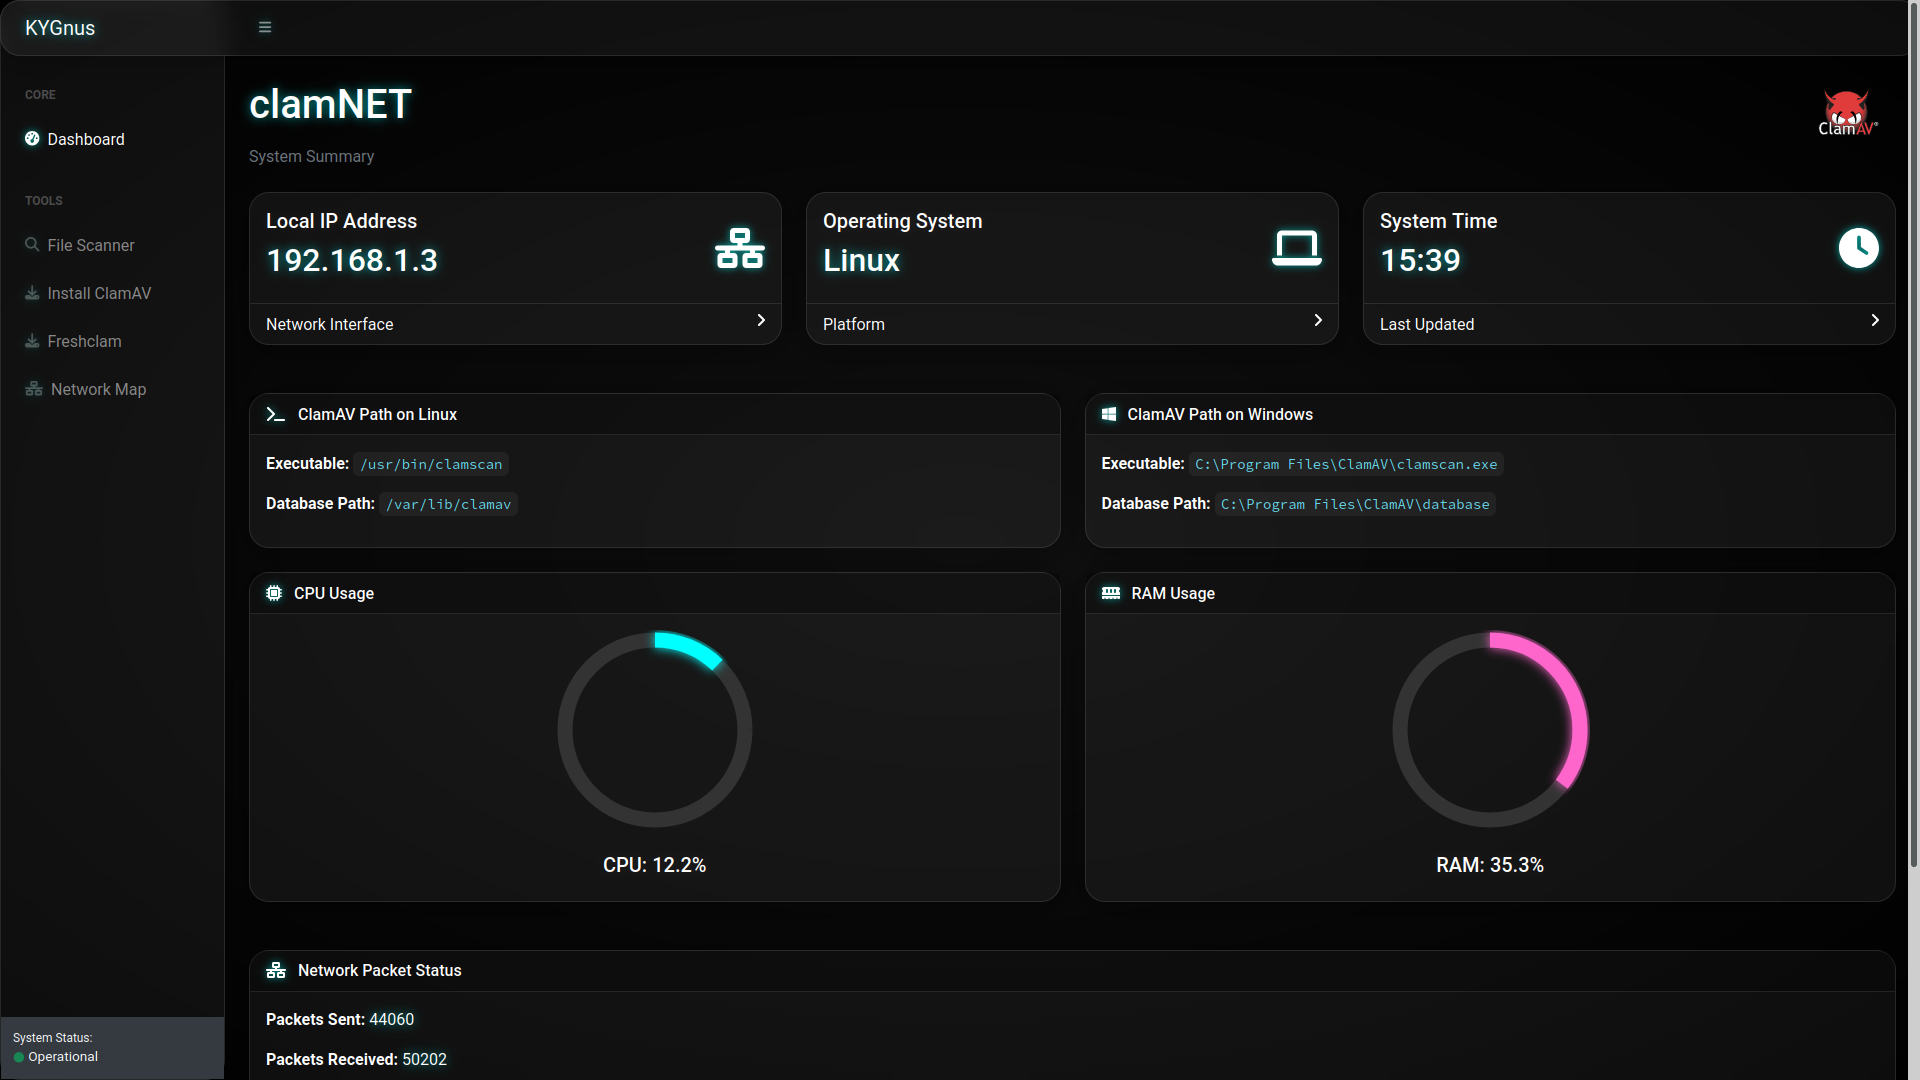
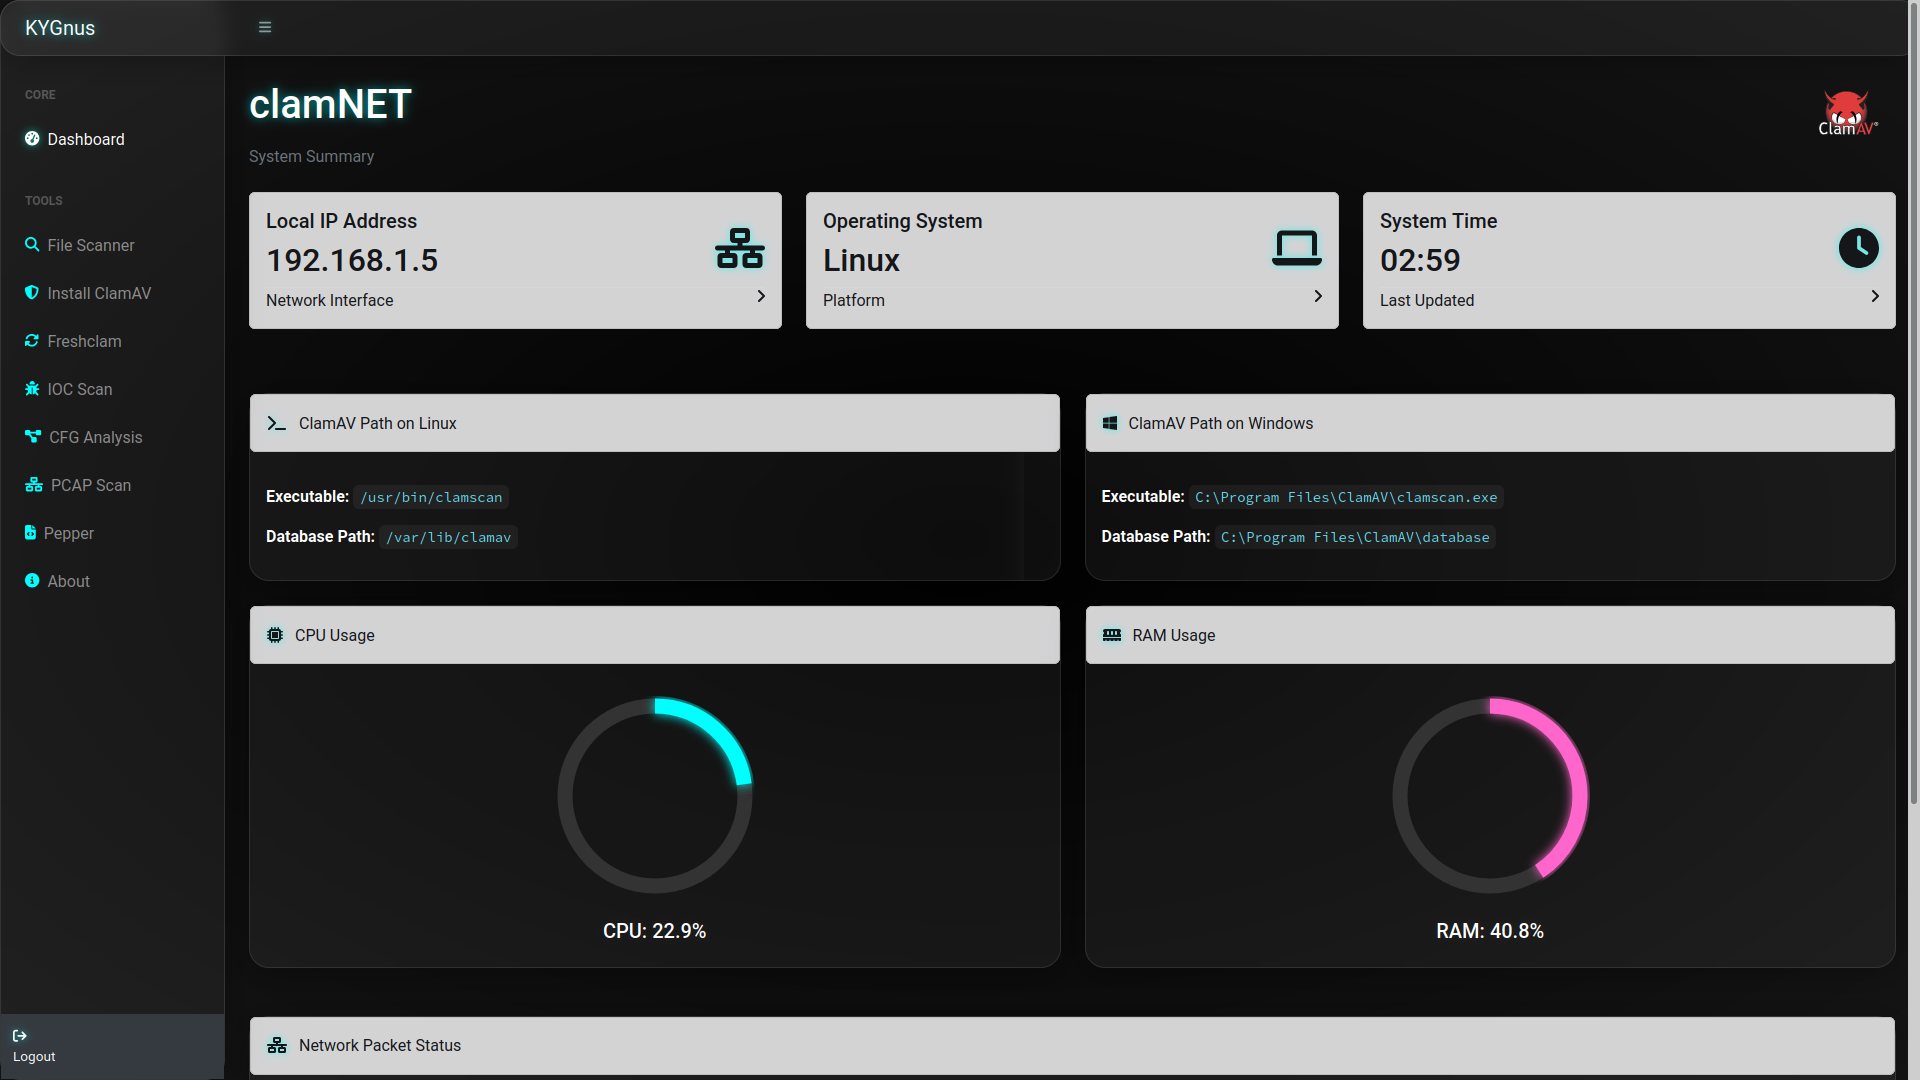
add new README and Screnshots

diff --git a/README.md b/README.md
@@ -1,27 +1,42 @@
 # 🛡 ClamAV Console Web App
 
-A cross-platform, web-based, open-source console for managing and automating **ClamAV** antivirus across remote **Linux** and **Windows** systems. This app provides tools for **remote installation**, **on-demand scanning**, **database updates**, and **network topology visualization** — all from a single, secure dashboard.
+A cross-platform, web-based, open-source console for managing and automating **ClamAV** antivirus across remote **Linux** and **Windows** systems. This app provides tools for **remote installation**, **on-demand scanning**, **database updates**, **network topology visualization**, **IOC scanning**, **PCAP analysis**, and **malware analysis** — all from a single, secure dashboard.
 
 ---
 
 ## 🚀 Features
 
+### Core ClamAV Management
 - ✅ **Remote Installation** of ClamAV on Linux and Windows systems  
 - 🔍 **Scan Local and Remote Systems** with ClamAV  
 - 🔄 **Automatic Virus Database Updates** across multiple remote hosts  
 - 🌐 **Network Scanning** to detect systems with ClamAV installed  
-- 🗺 **Network Topology Map** with OS guessing via TTL  
+
+### Network Analysis
 - 📊 **System Monitoring**: CPU, RAM, and network usage  
-- 🔐 **Login-Authenticated Dashboard** (Flask-Login)  
+- 🔎 **PCAP Analysis** for network traffic inspection  
+- 🌍 **Network Protocol Visualization**  
+
+### Security Analysis
+- 🔐 **IOC Scanning** with YARA rules and hash matching  
+- 🧪 **Malware Analysis** with Pepper framework  
+- 🕵 **Control Flow Graph Analysis** for binary inspection  
+- 📝 **File Metadata Analysis**  
+
+### Platform Features
 - 🧰 CLI and GUI elements powered by Flask + Jinja2  
 - 📦 Multi-threaded with real-time logs using Server-Sent Events (SSE)  
 - 🖥 Cross-platform: supports both **Linux** and **Windows** servers  
+- 🔐 **Login-Authenticated Dashboard** (Flask-Login)  
 
 ---
 
 ## 📸 Screenshots
 
-![clamNET](./clamNET.png)
+![clamNET Dashboard](./clamNET.png)
+![clamNET scan](./clamscan.png)
+![IOC Scanner](./ioc_scan.png)
+![PCAP Analysis](./pcap_analysis.png)
 
 ---
 
@@ -29,35 +44,52 @@ A cross-platform, web-based, open-source console for managing and automating **C
 
 ### 📋 Prerequisites
 
-- Python 3.11
+- Python 3.11+
 - `pip` / `virtualenv`
 - SSH access to remote systems
 - ClamAV MSI for Windows installs (`clamav-1.*.*.win.x64.msi`) should be present on the server
+- Optional dependencies for advanced features:
+  - `libpcap` for PCAP analysis
+  - `yara` for IOC scanning
+  - `pepper` for malware analysis
 
 ### 🔧 Setup
 
 ```bash
 git clone https://github.com/KYGnus/clamNET.git
-cd clamNEt
+cd clamNET
 python3 -m venv venv
 source venv/bin/activate  # On Windows: venv\Scripts\activate
 pip install -r requirements.txt
-````
+```
 
-**Note:This Requirements is for python 3.11.13**
+**Note:** These requirements are for Python 3.11.13
 
+### Advanced Feature Setup
+For PCAP analysis:
+```bash
+sudo apt-get install libpcap-dev  # Debian/Ubuntu
+sudo yum install libpcap-devel    # CentOS/RHEL
+```
 
-### 🔐 Default Login
+For Pepper analysis:
+```bash
+git clone https://github.com/KYGnus/pepper.git
+cp pepper/pepper.py ./clamNET/
+```
+
+---
+
+## 🔐 Default Login
 
 | Username | Password |
 | -------- | -------- |
-| config.USERNAME    | config.PASSWORD    |
+| `config.USERNAME` | `config.PASSWORD` |
 
-> ⚠ Change the admin password in `main.py` before deploying to production:
-
-```python
-ADMIN_PASSWORD_HASH = generate_password_hash(f'{config.PASSWORD}')
-```
+> ⚠ **Change the admin password in `main.py` before deploying to production**:
+> ```python
+> ADMIN_PASSWORD_HASH = generate_password_hash('your_secure_password_here')
+> ```
 
 ---
 
@@ -71,31 +103,47 @@ Then visit: [http://localhost:5005](http://localhost:5005)
 
 ---
 
-## 🌐 Network Topology
+## 🌐 Network Features
 
-Scan a network (e.g., `192.168.1.0/24`) to discover active hosts, detect OS via TTL, and visualize the network structure.
+### Topology Scanning
+Scan a network (e.g., `192.168.1.0/24`) to:
+- Discover active hosts
+- Detect OS via TTL analysis
+- Visualize network structure
+- Identify ClamAV installations
 
-* Ping sweep with TTL-based OS fingerprinting
-* Displays IP, hostname (if resolvable), TTL, and OS guess
+### PCAP Analysis
+- Upload packet capture files (.pcap, .pcapng)
+- Protocol distribution visualization
+- Traffic pattern analysis
+- Suspicious activity detection
 
 ---
 
-## 🛠 Usage
+## 🛠 Usage Guide
 
-### 🔧 Installation of ClamAV oh hosts
+### 🔧 ClamAV Installation
+1. Navigate to the Install page
+2. Enter target IPs (comma-separated)
+3. Provide SSH credentials
+4. The app will auto-detect OS and install the appropriate ClamAV version
 
-* Enter host IPs (comma-separated), SSH username and password
-* App detects OS and installs the correct ClamAV version
+### 🔄 Database Updates
+1. Go to the Update page
+2. Select target hosts
+3. Monitor real-time update progress
 
-### 🔄 Updating ClamAV Databases on Hosts
+### 🧪 Security Scanning
+#### Basic Scanning:
+- Select local or remote scan
+- Choose directory path
+- View real-time results
 
-* Enter the same credentials and hosts
-* Uses `freshclam` or Windows updater remotely
-
-### 🧪 Virus Scan
-
-* Specify a directory path to scan (local or remote)
-* Results stream live using SSE
+#### Advanced Scanning:
+- **IOC Scanner**: Upload files for YARA rule matching and hash analysis
+- **PCAP Analyzer**: Inspect network traffic patterns
+- **Pepper Analysis**: Perform deep malware analysis on executables
+- **CFG Analysis**: Examine binary control flow graphs
 
 ---
 
@@ -103,32 +151,45 @@ Scan a network (e.g., `192.168.1.0/24`) to discover active hosts, detect OS via 
 
 ```text
 .
-├── main.py                # Main Flask app with all routes and logic
-├── templates/             # HTML templates for UI
-├── static/                # CSS/JS if needed
-├── clamav-1.4.3.win.x64.msi  # Optional: Windows installer for ClamAV
-├── requirements.txt       # Required Python packages
+├── main.py                # Main Flask application
+├── modules/               # Additional functional modules
+│   ├── pcap.py            # PCAP analysis
+│   └── installer.py       # Remote installation
+├── templates/             # HTML templates
+├── static/                # CSS/JS assets
+├── ioc_rules/             # YARA rules for IOC scanning
+├── uploads/               # File upload directory
+├── clamav-*.win.x64.msi   # Windows installer
+├── pepper.py              # Malware analysis tool
+└── requirements.txt       # Python dependencies
 ```
 
 ---
 
 ## 🧪 Tested Platforms
 
-| OS         | Remote Install | Scanning | Update |
-| ---------- | -------------- | -------- | ------ |
-| Ubuntu     | ✅              | ✅        | ✅      |
-| openSUSE   | ✅              | ✅        | ✅      |
-| Windows 10 | ✅              | ✅        | ✅      |
----
+| OS         | Remote Install | Scanning | Update | IOC Scan | PCAP Analysis |
+| ---------- | -------------- | -------- | ------ | -------- | ------------- |
+| Ubuntu     | ✅              | ✅        | ✅      | ✅        | ✅             |
+| openSUSE   | ✅              | ✅        | ✅      | ✅        | ✅             |
+| Windows 10 | ✅              | ✅        | ✅      | ✅        | ✅             |
+| macOS      | ❌              | ✅        | ❌      | ✅        | ✅             |
 
+---
 
 ## 🤝 Contributing
 
-1. Fork the repo
-2. Create a branch: `git checkout -b feature-name`
+1. Fork the repository
+2. Create a feature branch: `git checkout -b feature-name`
 3. Commit your changes: `git commit -m "Add feature"`
 4. Push to your fork: `git push origin feature-name`
 5. Submit a pull request
+
+**Development Setup:**
+```bash
+pip install -r requirements-dev.txt
+pre-commit install
+```
 
 ---
 
@@ -141,11 +202,8 @@ Scan a network (e.g., `192.168.1.0/24`) to discover active hosts, detect OS via 
 ## 📞 Contact
 
 * **Koosha Yeganeh**
-  Email: [kygnus.co@proton.me](mailto:kygnus.co@proton.me)
-  Website: [kygnus.github.io](https://kygnus.github.io/)
-
----
-
-> Made with 💻 and ☕ by Koosha Yeganeh | Free software for a more secure world.
+  - Email: [kygnus.co@proton.me](mailto:kygnus.co@proton.me)
+  - Website: [kygnus.github.io](https://kygnus.github.io/)
+  - GitHub: [@KYGnus](https://github.com/KYGnus)
 
 
